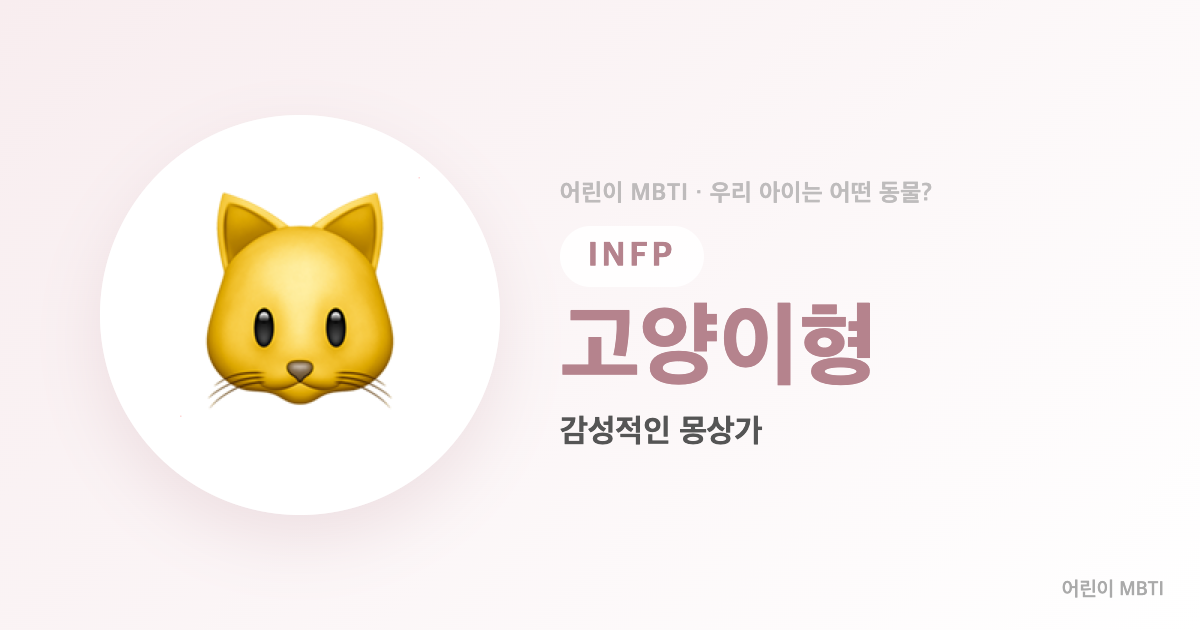
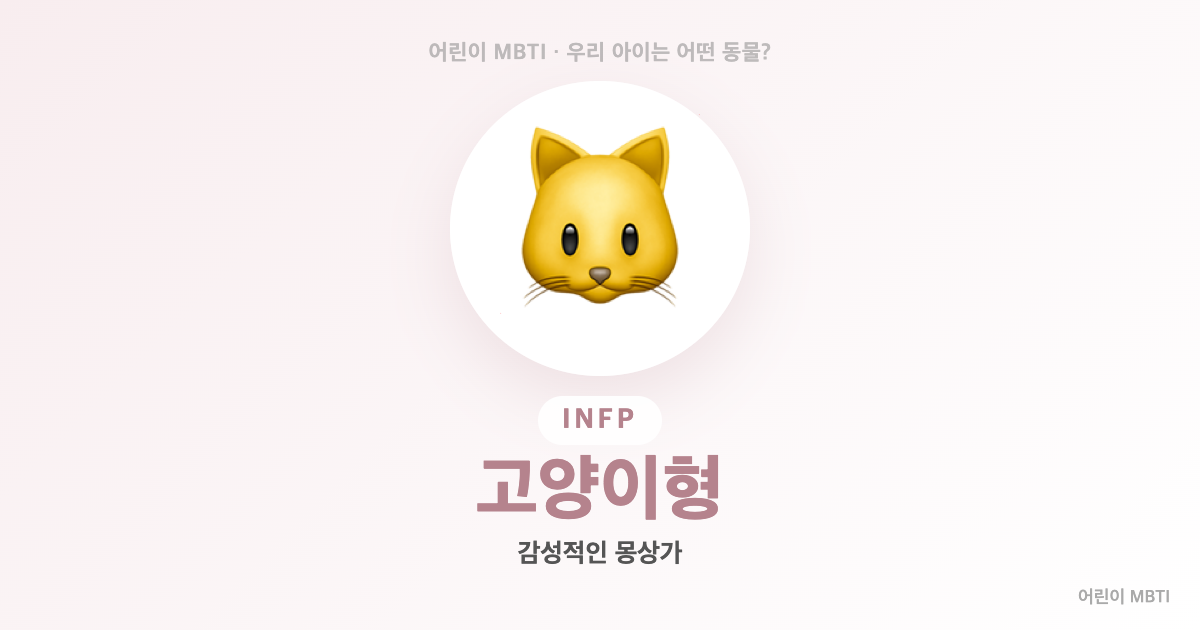
결과 텍스트 keep-all + OG 동물 중앙정렬
- 아이 결과/심리적 특성/4개 가이드 카드 모두 word-break: keep-all
- og_template.html 레이아웃 좌우분할 → 상하중앙정렬
- /og/{TYPE}.png 16장 + og-image.png 재생성

diff --git a/og_template.html b/og_template.html
@@ -14,44 +14,40 @@
     width: 1200px; height: 630px;
     position: relative;
     background: var(--bg);
-    display: flex; align-items: center;
-    padding: 0 80px;
+    display: flex; flex-direction: column;
+    align-items: center; justify-content: center;
+    padding: 40px 40px 60px;
+    text-align: center;
   }
-  /* per-type layout */
-  .circle-wrap {
-    width: 440px; flex-shrink: 0;
-    display: flex; align-items: center; justify-content: center;
+  /* per-type layout — 동물 중앙 정렬 */
+  .label {
+    font-size: 22px; color: #88888888; font-weight: 700;
+    letter-spacing: 0.5px; margin-bottom: 14px;
   }
   .circle {
-    width: 400px; height: 400px; border-radius: 50%;
+    width: 300px; height: 300px; border-radius: 50%;
     background: #ffffff;
     display: flex; align-items: center; justify-content: center;
-    font-size: 240px; line-height: 1;
-    box-shadow: 0 24px 64px var(--shadow), inset 0 0 0 8px rgba(255,255,255,0.6);
-  }
-  .text {
-    flex: 1; padding-left: 40px;
-  }
-  .label {
-    font-size: 24px; color: #88888888; font-weight: 700;
-    letter-spacing: 0.5px; margin-bottom: 18px;
+    font-size: 200px; line-height: 1;
+    box-shadow: 0 24px 64px var(--shadow), inset 0 0 0 6px rgba(255,255,255,0.6);
+    margin-bottom: 20px;
   }
   .badge {
-    display: inline-block; padding: 10px 28px; border-radius: 32px;
+    display: inline-block; padding: 8px 24px; border-radius: 28px;
     background: #ffffffee; color: var(--accent);
-    font-size: 34px; font-weight: 800; letter-spacing: 4px;
-    margin-bottom: 18px;
+    font-size: 28px; font-weight: 800; letter-spacing: 4px;
+    margin-bottom: 12px;
   }
   .name {
-    font-size: 92px; color: var(--accent); font-weight: 800;
-    line-height: 1.0; margin-bottom: 16px;
+    font-size: 72px; color: var(--accent); font-weight: 800;
+    line-height: 1.0; margin-bottom: 10px;
   }
   .tag {
-    font-size: 32px; color: #555; font-weight: 700;
+    font-size: 26px; color: #555; font-weight: 700;
   }
   .footer {
-    position: absolute; bottom: 28px; right: 36px;
-    font-size: 20px; color: #aaa; font-weight: 600;
+    position: absolute; bottom: 22px; right: 30px;
+    font-size: 18px; color: #aaa; font-weight: 600;
   }
 
   /* default mode (no type) */
@@ -125,13 +121,11 @@ if (!type || !CHARS[type]) {
   document.documentElement.style.setProperty("--bg", `linear-gradient(135deg, ${c.bg} 0%, #ffffff 100%)`);
   document.documentElement.style.setProperty("--shadow", c.color + "30");
   card.innerHTML = `
-    <div class="circle-wrap"><div class="circle">${c.emoji}</div></div>
-    <div class="text">
-      <div class="label">어린이 MBTI · 우리 아이는 어떤 동물?</div>
-      <div class="badge">${type}</div>
-      <div class="name">${c.name}형</div>
-      <div class="tag">${c.tag}</div>
-    </div>
+    <div class="label">어린이 MBTI · 우리 아이는 어떤 동물?</div>
+    <div class="circle">${c.emoji}</div>
+    <div class="badge">${type}</div>
+    <div class="name">${c.name}형</div>
+    <div class="tag">${c.tag}</div>
     <div class="footer">어린이 MBTI</div>
   `;
 }

diff --git a/child-mbti.jsx b/child-mbti.jsx
@@ -1064,6 +1064,7 @@ export default function ChildMBTI() {
             fontSize: "16px", color: "#444", lineHeight: 2,
             whiteSpace: "pre-line", textAlign: "left",
             fontWeight: 600,
+            wordBreak: "keep-all",
           }}>
             {CHILD_DESC[result]}
           </div>
@@ -1197,7 +1198,7 @@ export default function ChildMBTI() {
                   <span style={{ fontSize: "20px" }}>🧠</span>
                   <h4 style={{ margin: 0, fontSize: "15px", color: "#5B5FFF", fontWeight: 800, letterSpacing: "-0.3px" }}>이 유형의 심리적 특성</h4>
                 </div>
-                <p style={{ margin: 0, fontSize: "14px", color: "#444", lineHeight: 1.85, fontFamily: '"Nanum Gothic", sans-serif' }}>
+                <p style={{ margin: 0, fontSize: "14px", color: "#444", lineHeight: 1.85, fontFamily: '"Nanum Gothic", sans-serif', wordBreak: "keep-all" }}>
                   {pdata.psychology}
                 </p>
               </div>
@@ -1217,7 +1218,7 @@ export default function ChildMBTI() {
                   <span style={{ fontSize: "20px" }}>{item.icon}</span>
                   <h4 style={{ margin: 0, fontSize: "16px", color: item.color, fontWeight: "800" }}>{item.title}</h4>
                 </div>
-                <p style={{ margin: 0, fontSize: "14px", color: "#555", lineHeight: 1.8, fontFamily: '"Nanum Gothic", sans-serif' }}>
+                <p style={{ margin: 0, fontSize: "14px", color: "#555", lineHeight: 1.8, fontFamily: '"Nanum Gothic", sans-serif', wordBreak: "keep-all" }}>
                   {pdata[item.key]}
                 </p>
               </div>

diff --git a/index.html b/index.html
@@ -1105,6 +1105,7 @@ function ChildMBTI() {
             fontSize: "16px", color: "#444", lineHeight: 2,
             whiteSpace: "pre-line", textAlign: "left",
             fontWeight: 600,
+            wordBreak: "keep-all",
           }}>
             {CHILD_DESC[result]}
           </div>
@@ -1238,7 +1239,7 @@ function ChildMBTI() {
                   <span style={{ fontSize: "20px" }}>🧠</span>
                   <h4 style={{ margin: 0, fontSize: "15px", color: "#5B5FFF", fontWeight: 800, letterSpacing: "-0.3px" }}>이 유형의 심리적 특성</h4>
                 </div>
-                <p style={{ margin: 0, fontSize: "14px", color: "#444", lineHeight: 1.85, fontFamily: '"Nanum Gothic", sans-serif' }}>
+                <p style={{ margin: 0, fontSize: "14px", color: "#444", lineHeight: 1.85, fontFamily: '"Nanum Gothic", sans-serif', wordBreak: "keep-all" }}>
                   {pdata.psychology}
                 </p>
               </div>
@@ -1258,7 +1259,7 @@ function ChildMBTI() {
                   <span style={{ fontSize: "20px" }}>{item.icon}</span>
                   <h4 style={{ margin: 0, fontSize: "16px", color: item.color, fontWeight: "800" }}>{item.title}</h4>
                 </div>
-                <p style={{ margin: 0, fontSize: "14px", color: "#555", lineHeight: 1.8, fontFamily: '"Nanum Gothic", sans-serif' }}>
+                <p style={{ margin: 0, fontSize: "14px", color: "#555", lineHeight: 1.8, fontFamily: '"Nanum Gothic", sans-serif', wordBreak: "keep-all" }}>
                   {pdata[item.key]}
                 </p>
               </div>
